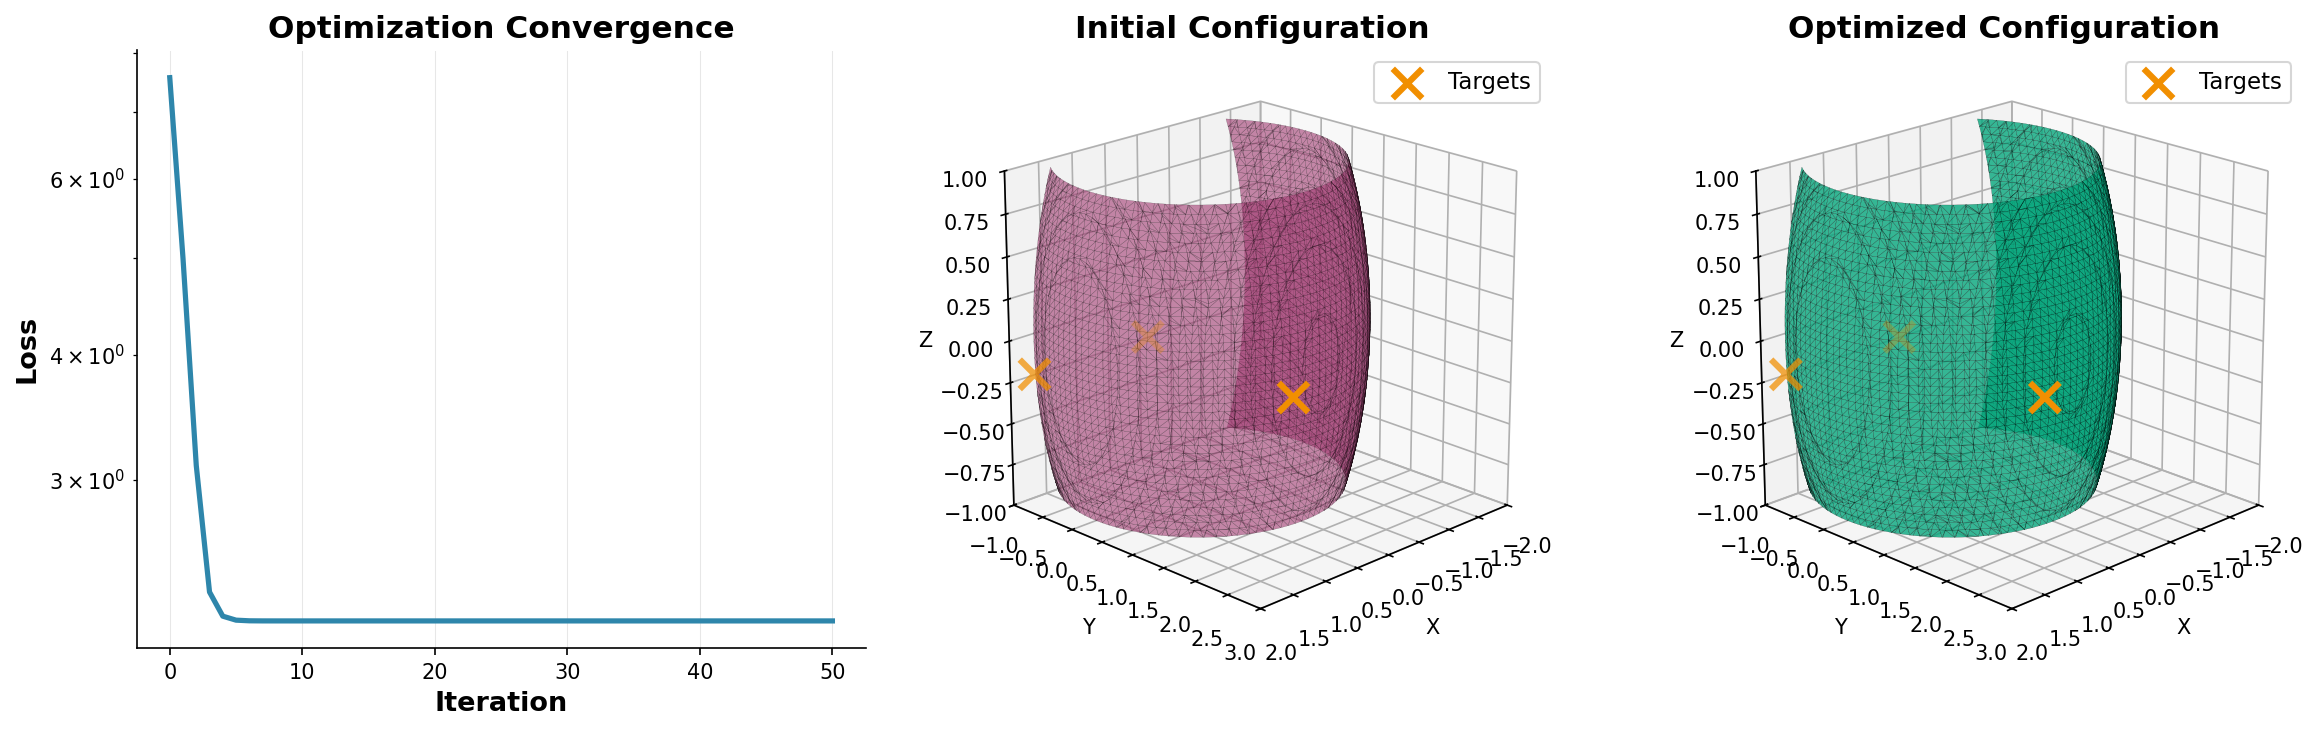
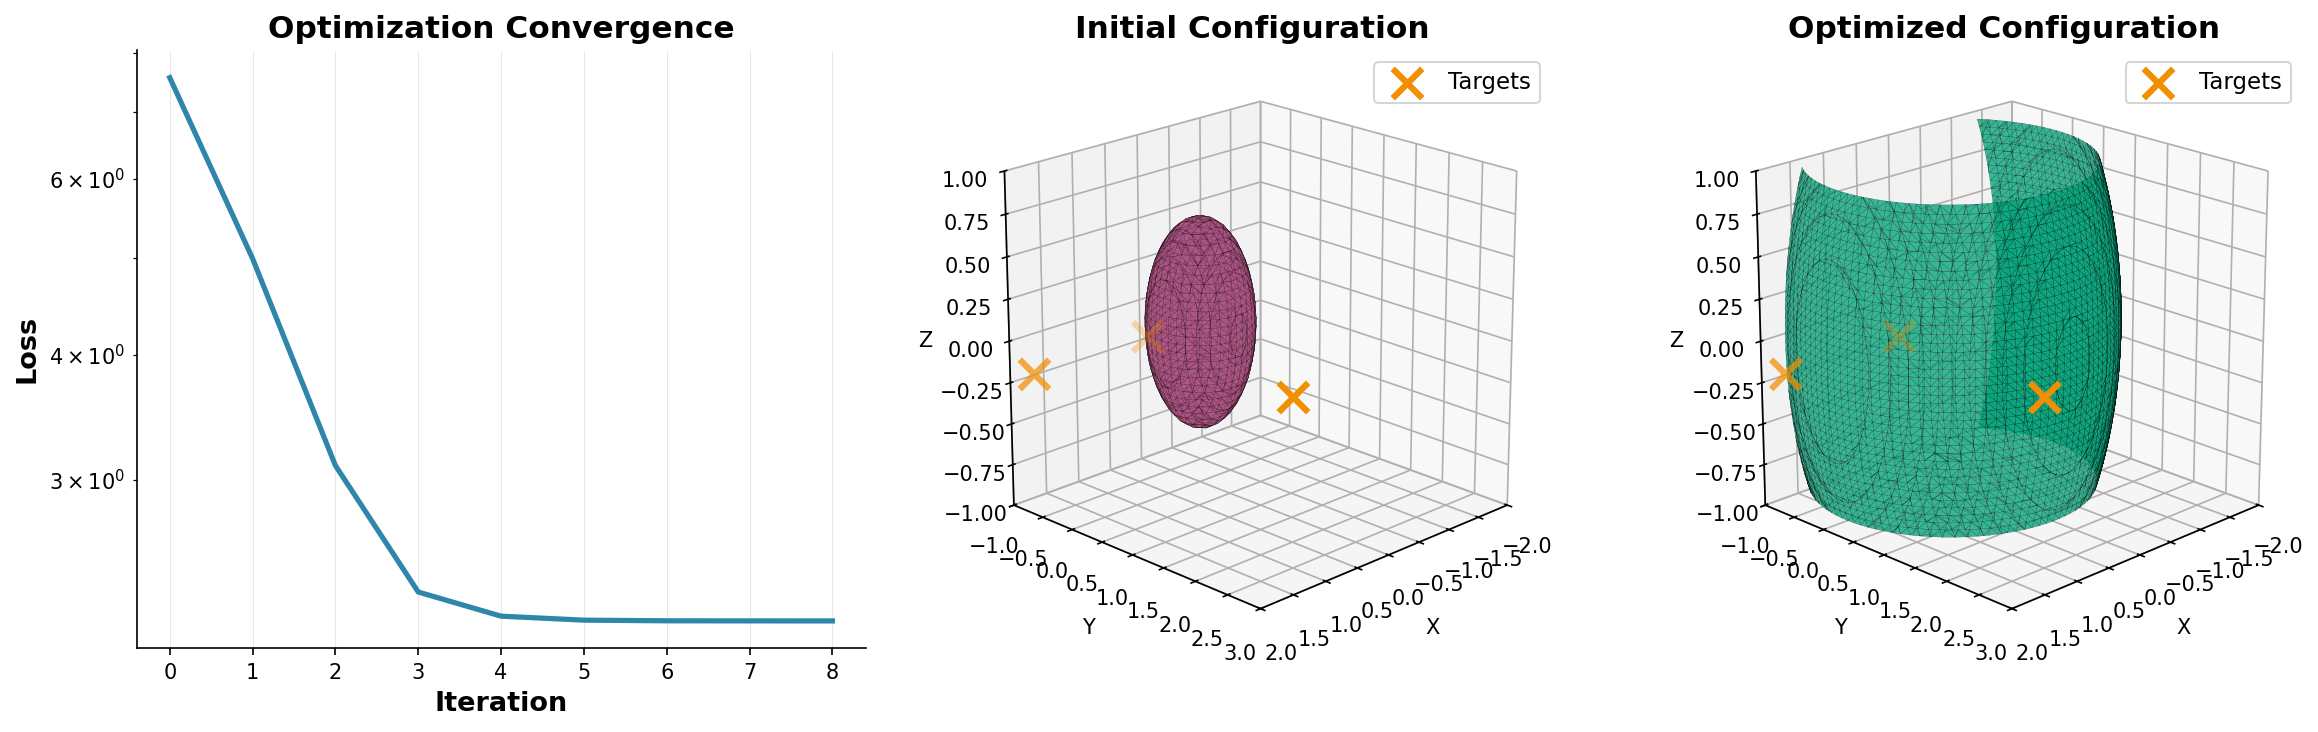
update readme

diff --git a/examples/01_primitives_and_transforms.py b/examples/01_primitives_and_transforms.py
@@ -3,7 +3,7 @@
 This example demonstrates:
 - Creating basic SDF primitives (Sphere, Box, Cylinder)
 - Applying transforms (translate, scale)
-- Boolean operations (union, difference)
+- Boolean operations (union, difference, intersection)
 - 3D rendering using marching cubes
 """
 
@@ -11,104 +11,133 @@ import jax.numpy as jnp
 import matplotlib.pyplot as plt
 
 from jaxcad.sdf.primitives import Sphere, Box, Cylinder
-from jaxcad.sdf.boolean import Union, Difference
+from jaxcad.sdf.boolean import Union, Difference, Intersection
 from jaxcad.render import render_marching_cubes
 
 
-def create_scene():
-    """Create a scene with multiple primitives and transforms."""
-    print("Creating scene with primitives and transforms...")
+def create_scene1():
+    """Scene 1: Union - Platform with spheres."""
+    print("Creating scene 1: Union operations...")
 
-    # Base platform - large flat box
-    platform = Box(size=jnp.array([3.0, 3.0, 0.2]))
+    # Platform
+    platform = Box(size=jnp.array([3.0, 3.0, 0.3]))
     platform = platform.translate(offset=jnp.array([0.0, 0.0, -0.5]))
 
-    # Central sphere
-    sphere = Sphere(radius=0.8)
-    sphere = sphere.translate(offset=jnp.array([0.0, 0.0, 0.3]))
+    # Three spheres at different positions
+    sphere1 = Sphere(radius=0.6).translate(offset=jnp.array([-1.0, 0.0, 0.0]))
+    sphere2 = Sphere(radius=0.6).translate(offset=jnp.array([1.0, 0.0, 0.0]))
+    sphere3 = Sphere(radius=0.5).translate(offset=jnp.array([0.0, 0.0, 0.8]))
 
-    # Four pillars at corners (cylinders)
-    pillar = Cylinder(radius=0.15, height=0.6)
+    # Combine with union
+    scene = Union(platform, sphere1)
+    scene = Union(scene, sphere2)
+    scene = Union(scene, sphere3)
 
-    pillar1 = pillar.translate(offset=jnp.array([1.5, 1.5, -0.3]))
-    pillar2 = pillar.translate(offset=jnp.array([-1.5, 1.5, -0.3]))
-    pillar3 = pillar.translate(offset=jnp.array([1.5, -1.5, -0.3]))
-    pillar4 = pillar.translate(offset=jnp.array([-1.5, -1.5, -0.3]))
-
-    # Small box on top, scaled and translated
-    top_box = Box(size=jnp.array([0.3, 0.3, 0.3]))
-    top_box = top_box.scale(scale=1.5)
-    top_box = top_box.translate(offset=jnp.array([0.0, 0.0, 1.2]))
-
-    # Create hole in sphere using difference
-    hole = Cylinder(radius=0.4, height=1.0)
-    sphere_with_hole = Difference(sphere, hole)
-
-    # Union everything together
-    scene = Union(platform, pillar1)
-    scene = Union(scene, pillar2)
-    scene = Union(scene, pillar3)
-    scene = Union(scene, pillar4)
-    scene = Union(scene, sphere_with_hole)
-    scene = Union(scene, top_box)
-
-    print("✓ Scene created with 8 objects")
+    print("✓ Scene 1 created")
     return scene
 
 
-def render_scene(scene):
-    """Render the scene from multiple angles using marching cubes."""
-    print("Rendering scene with marching cubes...")
+def create_scene2():
+    """Scene 2: Difference - Sphere with cylindrical holes."""
+    print("Creating scene 2: Difference operations...")
 
-    fig = plt.figure(figsize=(15, 5))
+    # Large sphere
+    sphere = Sphere(radius=1.2)
 
-    # View 1: Front view
+    # Three cylinders as holes
+    hole1 = Cylinder(radius=0.4, height=3.0).translate(offset=jnp.array([0.0, 0.0, -1.5]))
+    hole2 = Cylinder(radius=0.4, height=3.0).translate(offset=jnp.array([0.0, -1.5, 0.0]))
+    hole3 = Cylinder(radius=0.4, height=3.0).translate(offset=jnp.array([-1.5, 0.0, 0.0]))
+
+    # Subtract holes from sphere
+    scene = Difference(sphere, hole1)
+    scene = Difference(scene, hole2)
+    scene = Difference(scene, hole3)
+
+    print("✓ Scene 2 created")
+    return scene
+
+
+def create_scene3():
+    """Scene 3: Intersection and scaling - Rounded cube."""
+    print("Creating scene 3: Intersection and scaling...")
+
+    # Box
+    box = Box(size=jnp.array([1.5, 1.5, 1.5]))
+
+    # Sphere to round the corners
+    sphere = Sphere(radius=1.3)
+
+    # Intersect to create rounded cube
+    rounded_cube = Intersection(box, sphere)
+
+    # Add a cylinder on top
+    cylinder = Cylinder(radius=0.3, height=0.8).translate(offset=jnp.array([0.0, 0.0, 0.75]))
+
+    # Union with cylinder
+    scene = Union(rounded_cube, cylinder)
+
+    print("✓ Scene 3 created")
+    return scene
+
+
+def render_scenes():
+    """Render three different scenes side by side."""
+    print("Rendering scenes with marching cubes...")
+
+    scene1 = create_scene1()
+    scene2 = create_scene2()
+    scene3 = create_scene3()
+
+    fig = plt.figure(figsize=(16, 5))
+
+    # Scene 1: Union
     ax1 = fig.add_subplot(131, projection='3d')
     render_marching_cubes(
-        scene,
-        bounds=(-3, -3, -1),
-        size=(6, 6, 3),
-        resolution=60,
+        scene1,
+        bounds=(-2, -2, -1),
+        size=(4, 4, 2.5),
+        resolution=50,
         ax=ax1,
         color='#06A77D',
         alpha=0.8
     )
-    ax1.set_title('Front View', fontsize=14, fontweight='bold')
-    ax1.view_init(elev=15, azim=45)
+    ax1.set_title('Union Operations', fontsize=14, fontweight='bold')
+    ax1.view_init(elev=20, azim=45)
     ax1.set_xlabel('X')
     ax1.set_ylabel('Y')
     ax1.set_zlabel('Z')
 
-    # View 2: Top view
+    # Scene 2: Difference
     ax2 = fig.add_subplot(132, projection='3d')
     render_marching_cubes(
-        scene,
-        bounds=(-3, -3, -1),
-        size=(6, 6, 3),
-        resolution=60,
+        scene2,
+        bounds=(-1.5, -1.5, -1.5),
+        size=(3, 3, 3),
+        resolution=50,
         ax=ax2,
         color='#2E86AB',
         alpha=0.8
     )
-    ax2.set_title('Top View', fontsize=14, fontweight='bold')
-    ax2.view_init(elev=90, azim=0)
+    ax2.set_title('Difference Operations', fontsize=14, fontweight='bold')
+    ax2.view_init(elev=20, azim=45)
     ax2.set_xlabel('X')
     ax2.set_ylabel('Y')
     ax2.set_zlabel('Z')
 
-    # View 3: Isometric view
+    # Scene 3: Intersection
     ax3 = fig.add_subplot(133, projection='3d')
     render_marching_cubes(
-        scene,
-        bounds=(-3, -3, -1),
-        size=(6, 6, 3),
-        resolution=60,
+        scene3,
+        bounds=(-1.5, -1.5, -1),
+        size=(3, 3, 2.5),
+        resolution=50,
         ax=ax3,
         color='#F18F01',
         alpha=0.8
     )
-    ax3.set_title('Isometric View', fontsize=14, fontweight='bold')
-    ax3.view_init(elev=30, azim=135)
+    ax3.set_title('Intersection & Transforms', fontsize=14, fontweight='bold')
+    ax3.view_init(elev=20, azim=45)
     ax3.set_xlabel('X')
     ax3.set_ylabel('Y')
     ax3.set_zlabel('Z')
@@ -126,9 +155,7 @@ def main():
     print("=" * 80)
     print()
 
-    scene = create_scene()
-    print()
-    render_scene(scene)
+    render_scenes()
 
     print()
     print("=" * 80)

diff --git a/examples/02_end_to_end_optimization.py b/examples/02_end_to_end_optimization.py
@@ -164,7 +164,7 @@ def run_optimization(sdf_fn, fixed_params):
 
     # Gradient descent
     learning_rate = 0.1
-    num_steps = 50
+    num_steps = 8
 
     radii_history = [initial_radii]
     loss_history = [initial_loss]
@@ -182,8 +182,7 @@ def run_optimization(sdf_fn, fixed_params):
         radii_history.append(current_radii)
         loss_history.append(loss)
 
-        if step % 10 == 0:
-            print(f"  Step {step:3d}: loss = {loss:.6f}, radii = {current_radii}")
+        print(f"  Step {step+1:3d}: loss = {loss:.6f}, radii = {current_radii}")
 
     final_loss = loss_history[-1]
     improvement = (1 - final_loss / initial_loss) * 100
@@ -277,7 +276,6 @@ def main():
 
     # Create initial scene
     scene, radii, centers, graph = create_scene()
-    initial_scene = scene  # Save for visualization
 
     # Compile
     sdf_fn, free_params, fixed_params = compile_scene(scene)
@@ -285,17 +283,29 @@ def main():
     # Optimize
     radii_history, loss_history, target_points = run_optimization(sdf_fn, fixed_params)
 
+    # Create initial scene for visualization (with initial radii)
+    initial_radii = radii_history[0]
+    radius1_init = Scalar(float(initial_radii[0]), free=False, name='r1_init')
+    radius2_init = Scalar(float(initial_radii[1]), free=False, name='r2_init')
+    radius3_init = Scalar(float(initial_radii[2]), free=False, name='r3_init')
+
+    sphere1_init = from_point(centers[0], radius1_init)
+    sphere2_init = from_point(centers[1], radius2_init)
+    sphere3_init = from_point(centers[2], radius3_init)
+    initial_scene = Union(sphere1_init, sphere2_init)
+    initial_scene = Union(initial_scene, sphere3_init)
+
     # Create final scene with optimized radii
     final_radii = radii_history[-1]
-    radii[0].value = final_radii[0]
-    radii[1].value = final_radii[1]
-    radii[2].value = final_radii[2]
+    radius1_final = Scalar(float(final_radii[0]), free=False, name='r1_final')
+    radius2_final = Scalar(float(final_radii[1]), free=False, name='r2_final')
+    radius3_final = Scalar(float(final_radii[2]), free=False, name='r3_final')
 
-    sphere1 = from_point(centers[0], radii[0])
-    sphere2 = from_point(centers[1], radii[1])
-    sphere3 = from_point(centers[2], radii[2])
-    final_scene = Union(sphere1, sphere2)
-    final_scene = Union(final_scene, sphere3)
+    sphere1_final = from_point(centers[0], radius1_final)
+    sphere2_final = from_point(centers[1], radius2_final)
+    sphere3_final = from_point(centers[2], radius3_final)
+    final_scene = Union(sphere1_final, sphere2_final)
+    final_scene = Union(final_scene, sphere3_final)
 
     # Visualize
     visualize_results(radii_history, loss_history, target_points, initial_scene, final_scene)

diff --git a/README.md b/README.md
@@ -40,42 +40,11 @@ def loss_fn(r):
 
 grad_fn = jax.grad(loss_fn)
 current_radius = 0.5
-for step in range(50):
+for step in range(8):
     gradient = grad_fn(current_radius)
     current_radius -= 0.1 * gradient
 
 print(f"Optimized radius: {current_radius}")
-```
-
-## Architecture
-
-jaxCAD is built with 5 independent layers:
-
-```
-┌─────────────────────────────────────┐
-│  Layer 1: Geometry                  │  Parametric primitives (Line, Circle, Rectangle)
-│  (jaxcad/geometry/)                 │  Parameters: Vector, Scalar (free or fixed)
-└────────────┬────────────────────────┘
-             │
-┌────────────┴────────────────────────┐
-│  Layer 2: Constraints               │  DistanceConstraint, AngleConstraint, etc.
-│  (jaxcad/constraints/)              │  ConstraintGraph manages DOF reduction
-└────────────┬────────────────────────┘
-             │
-┌────────────┴────────────────────────┐
-│  Layer 3: Construction              │  Bridges geometry → SDF
-│  (jaxcad/construction/)             │  extrude(), from_line(), from_circle()
-└────────────┬────────────────────────┘
-             │
-┌────────────┴────────────────────────┐
-│  Layer 4: Compiler                  │  Parameter extraction and compilation
-│  (jaxcad/compiler/)                 │  compile_to_function() → pure JAX
-└────────────┬────────────────────────┘
-             │
-┌────────────┴────────────────────────┐
-│  Layer 5: SDF                       │  Primitives, transforms, booleans
-│  (jaxcad/sdf/)                      │  Box, Sphere, Cylinder, etc.
-└─────────────────────────────────────┘
 ```
 
 ## Examples
